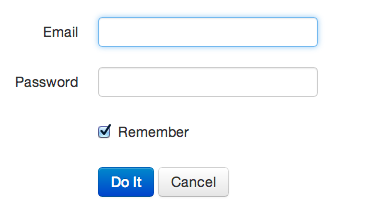
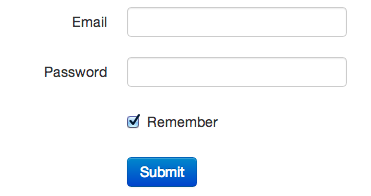
readme update

diff --git a/README.md b/README.md
@@ -34,9 +34,6 @@ To build a form, you need a form specification, which is a map that looks like t
 ```clj
 (def example-form
   {:method :post
-   :action "/example/path"
-   :submit-label "Do It"
-   :cancel-href "/example"
    :fields [{:name :secret-code :type :hidden :datatype :int}
             {:name :email :type :email}
             {:name :password :type :password}
@@ -56,21 +53,21 @@ Render a form using `formative.core/render-form`:
 ```clj
 (f/render-form example-form)
 ;; Returns:
-[:div {:class "form-shell form-horizontal"}
- [:form {:method :post, :action "/example/path"}
+[:div {:class "form-shell form-horizontal bootstrap-form"}
+ [:form {:method :post}
   ;; ... etc ...
   ]]
 ```
 
-Using the default `:bootstrap-horizontal` renderer and a [Bootstrap](http://twitter.github.com/bootstrap/) theme, the form will look something like this when turned from Hiccup to HTML:
+Using the default `:bootstrap-horizontal` renderer and a [Bootstrap](http://twitter.github.com/bootstrap/) theme, the form will look something like this:
 
-![schema](https://github.com/jkk/formative/raw/master/doc/bootstrap-horizontal.png)
+![form](https://github.com/jkk/formative/raw/master/doc/bootstrap-horizontal.png)
 
 Note: Formative does not include Bootstrap itself or any styling. You are responsible for providing CSS, images, etc.
 
 New form renderers can be implemented using the `formative.render-form/render-form*` multimethod.
 
-You can also render individual fields using `render-field`. Unlike `render-form*`, `render-field` _always_ returns Hiccup data. `render-field` takes a field specification and an optional value:
+You can also render individual fields using `formative.core/render-field`. Unlike `render-form`, `render-field` _always_ returns Hiccup data. `render-field` takes a field specification and an optional value:
 
 ```clj
 (f/render-field {:name :flavor
@@ -86,7 +83,7 @@ You can also render individual fields using `render-field`. Unlike `render-form*
 
 Notice that the "Vanilla" option is selected in our generated element.
 
-All of the built-in form renderers make use of `render-field` when rendering forms, but not all renderers are not required to do so.
+All of the built-in form renderers make use of `render-field`, but not all renderers are required to do so.
 
 ### Parsing Form Data
 
@@ -299,16 +296,19 @@ Field types are extensible with the `formative.render-field/render-field` and `f
 (ns example.core
   (:require [formative.core :as f]
             [formative.parse :as fp]
-            [hiccup.core :as hiccup]
+            [hiccup.page :as page]
             [compojure.core :refer [defroutes GET POST]]))
 
 (def example-form
   {:method :post
-   :fields [{:name :full-name}
+   :fields [{:name :h1 :type :heading :text "Section 1"}
+            {:name :full-name}
             {:name :email :type :email}
             {:name :spam :type :checkbox :label "Yes, please spam me."}
             {:name :password :type :password}
             {:name :password-confirm :type :password}
+            {:name :h1 :type :heading :text "Section 2"}
+            {:name :date :type :date-select}
             {:name :flavors :type :checkboxes
              :options ["Chocolate" "Vanilla" "Strawberry" "Mint"]}]
    :validations [[:required [:full-name :email :password]]
@@ -316,25 +316,32 @@ Field types are extensible with the `formative.render-field/render-field` and `f
                  [:equal [:password :password-confirm]]
                  [:min-length 2 :flavors "Please select two or more flavors"]]})
 
-(defn show-example-form [req & {:keys [problems]}]
+(defn show-example-form [params & {:keys [problems]}]
   (let [defaults {:spam true}]
-    (hiccup/html
-      [:h1 "Example"]
-      (f/render-form (assoc example-form
-                            :values (merge defaults
-                                           (:params req))
-                            :problems problems)))))
+    (page/html5
+      [:head
+       (page/include-css "//cdnjs.cloudflare.com/ajax/libs/twitter-bootstrap/2.2.2/css/bootstrap.min.css")
+       [:style "body { margin: 2em; }"]]
+      [:body
+       [:h1 "Example"]
+       (f/render-form (assoc example-form
+                             :values (merge defaults params)
+                             :problems problems))])))
 
-(defn submit-example-form [req]
-  (fp/with-fallback req show-example-form
-    (let [values (fp/parse-request example-form req)]
+(defn submit-example-form [params]
+  (fp/with-fallback (partial show-example-form params :problems)
+    (let [values (fp/parse-params example-form params)]
       (str "<p>Thank you!</p><pre>" (prn-str values) "</pre>"))))
 
 (defroutes example-routes
-  (GET "/example" _ show-example-form)
-  (POST "/example" _ submit-example-form))
+  (GET "/example" [& params] (show-example-form params))
+  (POST "/example" [& params] (submit-example-form params)))
 
 ```
+
+The form will look something like this:
+
+![form](https://github.com/jkk/formative/raw/master/doc/fuller-example.png)
 
 ## License
 
